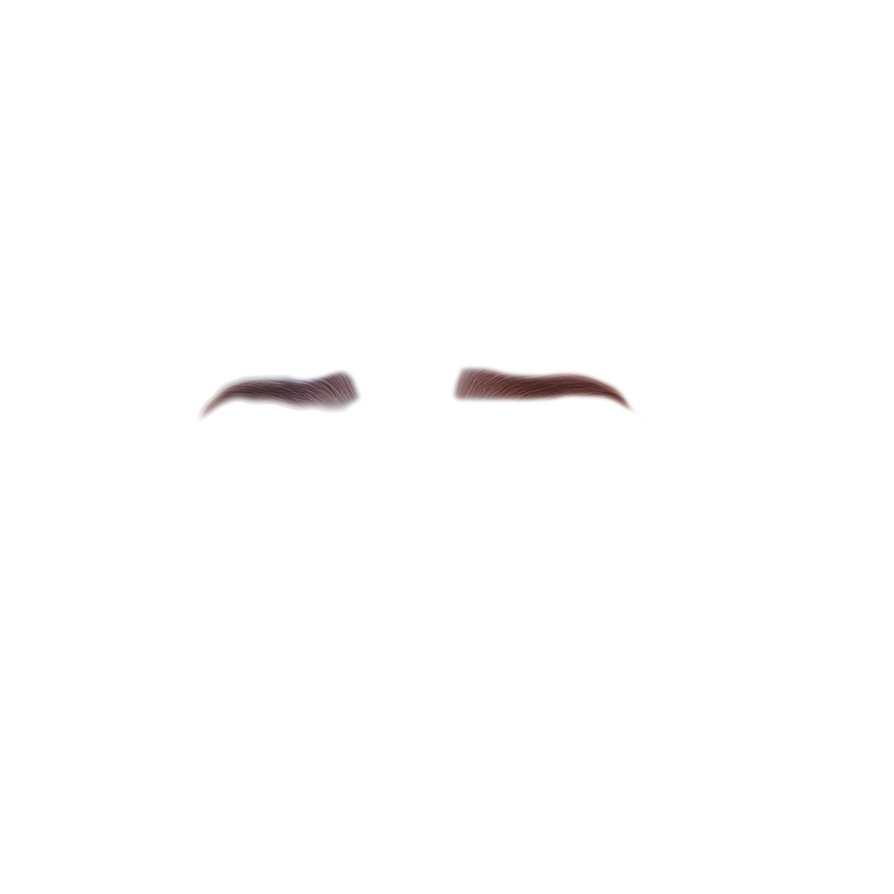
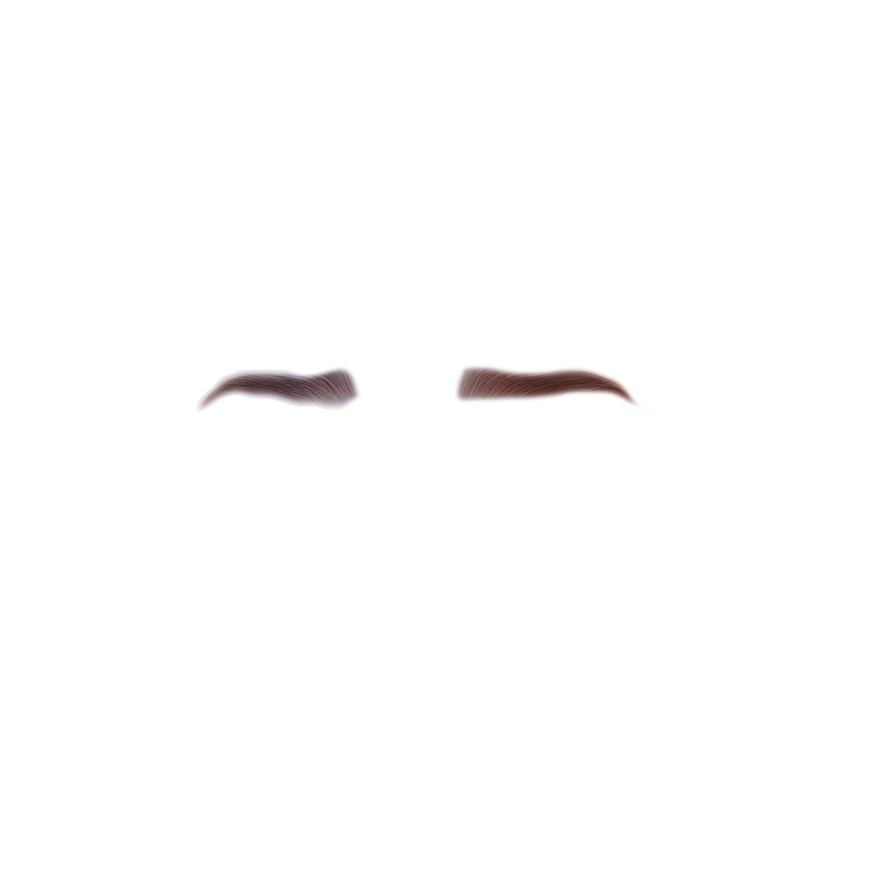
Update lotti

Changed region(s): [[0.2114, 0.3926, 0.3926, 0.4832], [0.4832, 0.3926, 0.7248, 0.453]]

diff --git a/src/components/lotti/index.tsx b/src/components/lotti/index.tsx
@@ -5,7 +5,7 @@ import { Viseme } from '../../types/bamborak'
 import mjezwoce from './wobrazy/mjezwoco.png'
 import woci_wocinjene from './wobrazy/woci_wocinjene.png'
 import woci_zacinjene from './wobrazy/woci_zacinjene.png'
-import brjowcki from './wobrazy/brjowcki.png'
+import brjowcki from './wobrazy/browcki1.png'
 import brjowcki2 from './wobrazy/browcki2.png'
 import closedImg from './wobrazy/closed.png'
 import aImg from './wobrazy/a.png'
@@ -76,7 +76,7 @@ const TalkingPuppet: React.FC<TalkingPuppetProps> = ({
   const isPlayingRef = useRef<boolean>(false)
   const [showPlayButton, setShowPlayButton] = useState<boolean>(false)
   const lottieRef = useRef<any>(null)
-  let augenCounter = 0
+
   // Eyebrow animation state
   const [eyebrowFrame, setEyebrowFrame] = useState<'brjowcki' | 'brjowcki2'>(
     'brjowcki'
@@ -85,12 +85,28 @@ const TalkingPuppet: React.FC<TalkingPuppetProps> = ({
     'woci_wocinjene' | 'woci_zacinjene'
   >('woci_wocinjene')
 
-  // Toggle eyebrows every 2 seconds
+  // Natural random blinking effect
   useEffect(() => {
-    const interval = setInterval(() => {
-      setEyebrowFrame(prev => (prev === 'brjowcki' ? 'brjowcki2' : 'brjowcki'))
-    }, 2000)
-    return () => clearInterval(interval)
+    let blinkTimeout: NodeJS.Timeout | null = null
+    let blinkDurationTimeout: NodeJS.Timeout | null = null
+
+    const startBlinking = () => {
+      // Random delay between 2 and 6 seconds
+      const nextBlink = Math.random() * 4000 + 10000
+      blinkTimeout = setTimeout(() => {
+        setEyesFrame('woci_zacinjene') // closed eyes
+        blinkDurationTimeout = setTimeout(() => {
+          setEyesFrame('woci_wocinjene') // open eyes
+          startBlinking() // schedule next blink
+        }, 200) // blink lasts 200ms
+      }, nextBlink)
+    }
+
+    startBlinking()
+    return () => {
+      if (blinkTimeout) clearTimeout(blinkTimeout)
+      if (blinkDurationTimeout) clearTimeout(blinkDurationTimeout)
+    }
   }, [])
 
   // Natural random blinking effect
@@ -100,11 +116,11 @@ const TalkingPuppet: React.FC<TalkingPuppetProps> = ({
 
     const startBlinking = () => {
       // Random delay between 2 and 6 seconds
-      const nextBlink = Math.random() * 4000 + 2000
+      const nextBlink = Math.random() * 5000 + 2000
       blinkTimeout = setTimeout(() => {
-        setEyesFrame('woci_zacinjene') // closed eyes
+        setEyebrowFrame('brjowcki2') // closed eyes
         blinkDurationTimeout = setTimeout(() => {
-          setEyesFrame('woci_wocinjene') // open eyes
+          setEyebrowFrame('brjowcki') // open eyes
           startBlinking() // schedule next blink
         }, 200) // blink lasts 200ms
       }, nextBlink)
